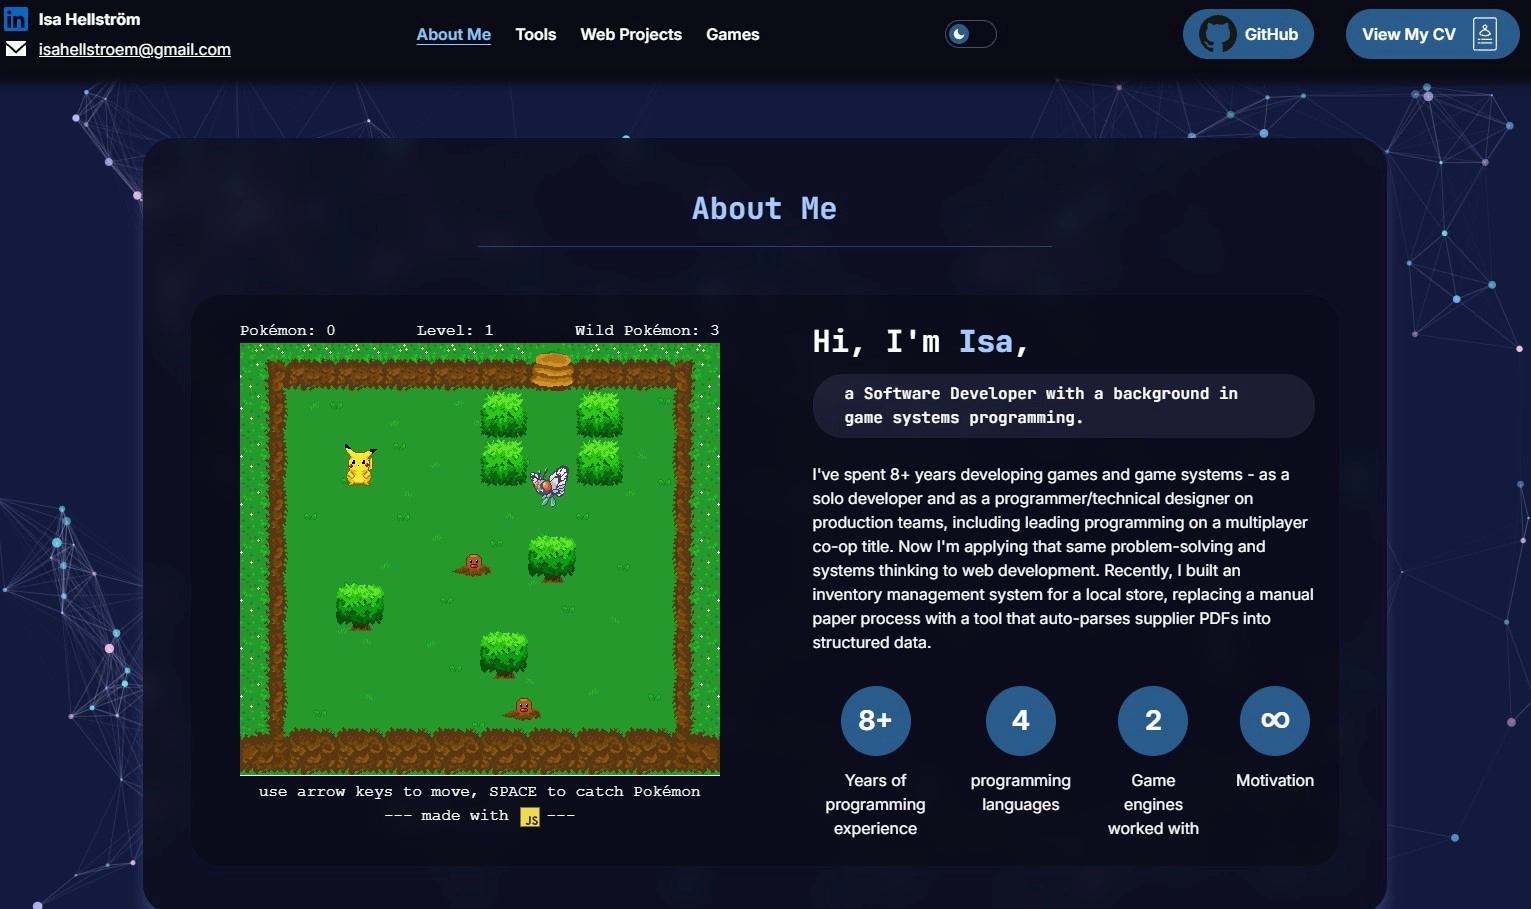
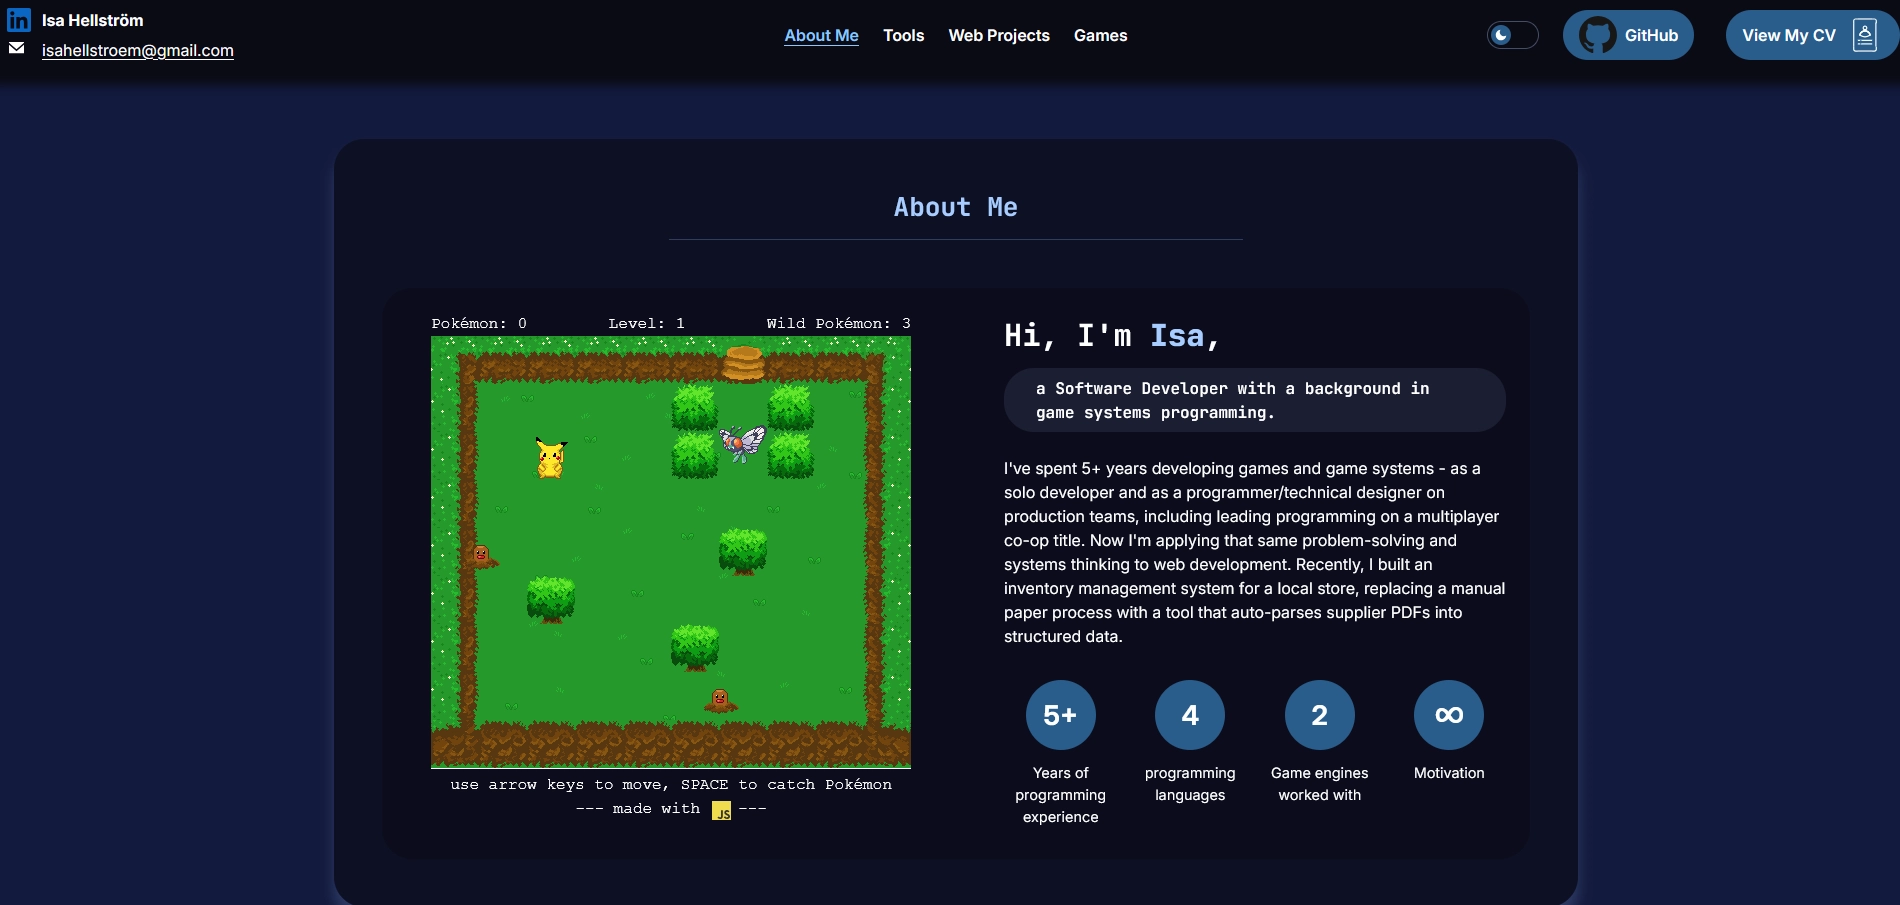
updated screenshot  and data

diff --git a/src/css/index.css b/src/css/index.css
@@ -204,12 +204,18 @@ b {
   top: 0;
   left: 0;
   width: 100%;
-  display: flex;
-  justify-content: space-between;
+  display: grid;
+  grid-template-columns: 1fr auto 1fr;
   align-items: center;
   background-color: var(--bg-color-header);
   height: 5em;
   box-shadow: 0px 0px 10px 10px var(--bg-color-header);
+}
+
+#header-actions {
+  display: flex;
+  align-items: center;
+  justify-content: flex-end;
 }
 
 /*
@@ -431,9 +437,15 @@ nav ul li a.nav-active {
   }
 
   #header {
+    display: flex;
+    justify-content: space-between;
     height: 3.5rem;
     padding: 0 0.4rem;
     gap: 0.25rem;
+  }
+
+  #header-actions {
+    flex-shrink: 0;
   }
 
   #contact {

diff --git a/src/components/About.jsx b/src/components/About.jsx
@@ -22,7 +22,7 @@ export default function About() {
             </p>
             <br />
             <p className="section-content">
-              I've spent 8+ years developing games and game systems - as a solo
+              I've spent 5+ years developing games and game systems - as a solo
               developer and as a programmer/technical designer on production
               teams, including leading programming on a multiplayer co-op title.
               Now I'm applying that same problem-solving and systems thinking to

diff --git a/src/components/Header.jsx b/src/components/Header.jsx
@@ -10,8 +10,10 @@ export default function Header() {
       <header>
         <Navbar />
       </header>
-      <ThemeToggle />
-      <CV />
+      <div id="header-actions">
+        <ThemeToggle />
+        <CV />
+      </div>
     </>
   );
 }
